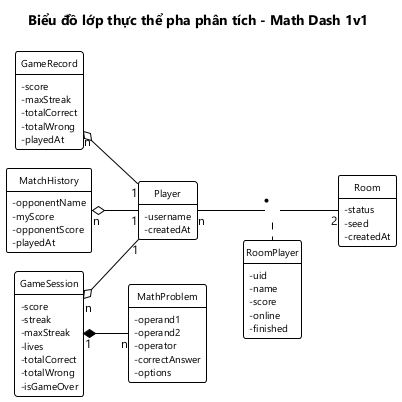
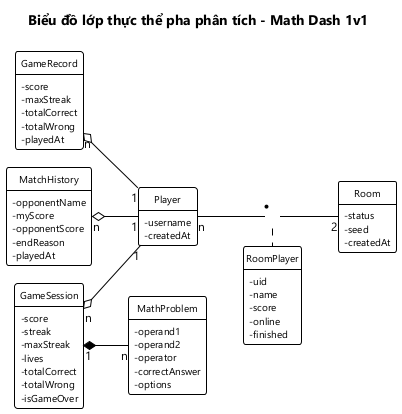
docs(M1-02): thêm thuộc tính endReason cho MatchHistory
Refs #23

diff --git a/docs/chung/02-lop-thuc-the.md b/docs/chung/02-lop-thuc-the.md
@@ -19,13 +19,13 @@ Hệ thống là một ứng dụng Android giúp người chơi luyện tính n
 
 Khi chơi offline, người chơi bắt đầu một ván chơi với 3 mạng. Trong ván chơi, hệ thống lần lượt đưa ra các câu hỏi, mỗi câu hỏi là một phép tính gồm hai toán hạng và một toán tử, kèm 4 phương án trả lời trong đó có một đáp án đúng. Cứ 5 câu hỏi thì mức độ khó tăng một bậc, tối đa 4 bậc. Mỗi câu có 6 giây để trả lời. Trả lời đúng thì người chơi được cộng điểm theo chuỗi đúng liên tiếp; trả lời sai hoặc hết giờ thì mất một mạng và chuỗi đúng trở về 0. Khi hết mạng, ván chơi kết thúc và hệ thống lưu kết quả ván gồm điểm, chuỗi đúng dài nhất, số câu đúng, số câu sai và thời điểm chơi. Kỷ lục của người chơi là điểm cao nhất trong các kết quả ván của người đó. Bảng vàng hiển thị các kết quả ván có điểm cao nhất trên máy.
 
-Khi chơi online, người chơi tìm trận: hệ thống đăng nhập ẩn danh để lấy mã định danh của máy, rồi tìm một phòng đấu đang chờ. Nếu có, người chơi vào phòng đó; nếu không, hệ thống tạo phòng đấu mới cùng mã đồng bộ câu hỏi và chờ đối thủ. Mỗi phòng đấu có trạng thái và tối đa hai người chơi trong phòng; mỗi người chơi trong phòng có mã định danh, tên, điểm, trạng thái trực tuyến và trạng thái đã xong trận. Hai người chơi trong cùng một phòng thi đấu 60 giây trên cùng một dãy câu hỏi được sinh từ mã đồng bộ, trả lời sai không mất mạng. Điểm của mỗi người được cập nhật lên phòng đấu để đối thủ thấy ngay. Hết giờ, người nhiều điểm hơn thắng, bằng điểm thì hòa; người bỏ trận bị xử thua. Kết quả trận gồm tên đối thủ, điểm của mình, điểm của đối thủ và thời điểm đấu được lưu vào lịch sử đấu của người chơi; người chơi có thể xem và xóa các trận trong lịch sử. Người chơi cũng có thể bật hoặc tắt âm thanh và rung.
+Khi chơi online, người chơi tìm trận: hệ thống đăng nhập ẩn danh để lấy mã định danh của máy, rồi tìm một phòng đấu đang chờ. Nếu có, người chơi vào phòng đó; nếu không, hệ thống tạo phòng đấu mới cùng mã đồng bộ câu hỏi và chờ đối thủ. Mỗi phòng đấu có trạng thái và tối đa hai người chơi trong phòng; mỗi người chơi trong phòng có mã định danh, tên, điểm, trạng thái trực tuyến và trạng thái đã xong trận. Hai người chơi trong cùng một phòng thi đấu 60 giây trên cùng một dãy câu hỏi được sinh từ mã đồng bộ, trả lời sai không mất mạng. Điểm của mỗi người được cập nhật lên phòng đấu để đối thủ thấy ngay. Hết giờ, người nhiều điểm hơn thắng, bằng điểm thì hòa; người bỏ trận bị xử thua. Kết quả trận gồm tên đối thủ, điểm của mình, điểm của đối thủ, cách kết thúc trận (bình thường, đối thủ bỏ trận hay mình bỏ trận) và thời điểm đấu được lưu vào lịch sử đấu của người chơi; người chơi có thể xem và xóa các trận trong lịch sử. Người chơi cũng có thể bật hoặc tắt âm thanh và rung.
 
 ## A.2. Bước 2: Trích các danh từ xuất hiện trong đoạn văn
 
 - **Các danh từ liên quan đến người:** người chơi, đối thủ, chủ phòng, người chơi trong phòng.
 - **Các danh từ liên quan đến vật:** ứng dụng, máy (điện thoại), màn hình chính.
-- **Các danh từ liên quan đến thông tin:** tên, mã định danh, ván chơi, mạng, câu hỏi, phép tính, toán hạng, toán tử, phương án trả lời, đáp án đúng, mức độ khó, thời gian (6 giây, 60 giây), điểm, chuỗi đúng, chuỗi đúng dài nhất, số câu đúng, số câu sai, kết quả ván, thời điểm chơi, kỷ lục, bảng vàng, phòng đấu, trạng thái phòng, mã đồng bộ câu hỏi, trạng thái trực tuyến, trạng thái đã xong trận, trận đấu, kết quả trận (thắng / thua / hòa), lịch sử đấu, thời điểm đấu, âm thanh, rung.
+- **Các danh từ liên quan đến thông tin:** tên, mã định danh, ván chơi, mạng, câu hỏi, phép tính, toán hạng, toán tử, phương án trả lời, đáp án đúng, mức độ khó, thời gian (6 giây, 60 giây), điểm, chuỗi đúng, chuỗi đúng dài nhất, số câu đúng, số câu sai, kết quả ván, thời điểm chơi, kỷ lục, bảng vàng, phòng đấu, trạng thái phòng, mã đồng bộ câu hỏi, trạng thái trực tuyến, trạng thái đã xong trận, trận đấu, kết quả trận (thắng / thua / hòa), cách kết thúc trận, lịch sử đấu, thời điểm đấu, âm thanh, rung.
 
 ## A.3. Bước 3: Đánh giá và lựa chọn các danh từ làm lớp thực thể hoặc thuộc tính
 
@@ -51,8 +51,9 @@ Khi chơi online, người chơi tìm trận: hệ thống đăng nhập ẩn da
   - Trận đấu → mỗi phòng đấu chỉ diễn ra đúng một trận và trận không có thông tin riêng ngoài thông tin của phòng (quan hệ 1-1) → **gộp vào lớp `Room`**, không đề xuất lớp.
   - Trạng thái phòng, mã đồng bộ câu hỏi → thuộc tính của `Room`.
   - Trạng thái trực tuyến, trạng thái đã xong trận → thuộc tính của `RoomPlayer`.
-  - Kết quả trận / lịch sử đấu → lịch sử đấu là danh sách các kết quả trận → lớp `MatchHistory` cho **một** kết quả trận: tên đối thủ (`opponentName`), điểm của mình (`myScore`), điểm của đối thủ (`opponentScore`), thời điểm đấu (`playedAt`).
-  - Thắng / thua / hòa → suy ra được bằng cách so `myScore` với `opponentScore` → thuộc tính dẫn xuất, **không lưu**.
+  - Kết quả trận / lịch sử đấu → lịch sử đấu là danh sách các kết quả trận → lớp `MatchHistory` cho **một** kết quả trận: tên đối thủ (`opponentName`), điểm của mình (`myScore`), điểm của đối thủ (`opponentScore`), cách kết thúc trận (`endReason`), thời điểm đấu (`playedAt`).
+  - Cách kết thúc trận → thuộc tính `endReason` của `MatchHistory`, **phải lưu**: đối thủ bỏ trận khi đang dẫn điểm thì mình vẫn thắng, nên không suy ra được từ 2 điểm số.
+  - Thắng / thua / hòa → suy ra được từ `endReason` (bỏ trận thì xử luôn) và so `myScore` với `opponentScore` (kết thúc bình thường) → thuộc tính dẫn xuất, **không lưu**.
   - Âm thanh, rung → là cấu hình của thiết bị, không phải đối tượng nghiệp vụ, không có quan hệ với lớp nào → **loại** (lưu bằng SharedPreferences ở pha thiết kế).
 
 ## A.4. Bước 4: Xác định quan hệ số lượng giữa các thực thể
@@ -63,7 +64,7 @@ Khi chơi online, người chơi tìm trận: hệ thống đăng nhập ẩn da
 - Một người chơi có nhiều kết quả ván, một kết quả ván thuộc về một người chơi → `Player` – `GameRecord` là **1-n**.
 - Một người chơi có nhiều kết quả trận, một kết quả trận thuộc về một người chơi → `Player` – `MatchHistory` là **1-n**.
 - Một người chơi tham gia nhiều phòng đấu theo thời gian, một phòng đấu có đúng 2 người chơi → `Player` – `Room` là **n-n** → đề xuất lớp trung gian `RoomPlayer` xác định duy nhất một người chơi trong một phòng, kèm điểm và trạng thái của người đó trong phòng.
-- Một phòng đấu kết thúc sinh ra một kết quả trận **trên mỗi máy** (theo góc nhìn của người chơi trên máy đó). Phòng đấu không được giữ lại sau khi trận kết thúc và kết quả trận chỉ cần tên đối thủ cùng 2 điểm số → `Room` – `MatchHistory` **không nối trực tiếp**. Các thông tin cần thiết được sao chép sang `MatchHistory` khi trận kết thúc.
+- Một phòng đấu kết thúc sinh ra một kết quả trận **trên mỗi máy** (theo góc nhìn của người chơi trên máy đó). Phòng đấu không được giữ lại sau khi trận kết thúc và kết quả trận chỉ cần tên đối thủ, 2 điểm số và cách kết thúc trận → `Room` – `MatchHistory` **không nối trực tiếp**. Các thông tin cần thiết được sao chép sang `MatchHistory` khi trận kết thúc.
 - Một trận đấu dùng câu hỏi sinh từ mã đồng bộ của phòng; câu hỏi không được lưu trên phòng (cả 2 máy tự sinh ra cùng một dãy) → `Room` – `MathProblem` **không nối trực tiếp**.
 
 ## A.5. Bước 5: Xác định quan hệ đối tượng giữa các thực thể
@@ -90,7 +91,7 @@ Kết quả thu được biểu đồ lớp thực thể pha phân tích toàn h
 | 4 | `GameRecord` | Kết quả ván | Bản lưu khi ván offline kết thúc; kỷ lục và bảng vàng suy ra từ lớp này |
 | 5 | `Room` | Phòng đấu (gộp trận đấu) | Lưu trên máy chủ |
 | 6 | `RoomPlayer` | Người chơi trong phòng | Lớp liên kết của quan hệ n-n `Player` – `Room`, lưu trên máy chủ |
-| 7 | `MatchHistory` | Kết quả trận / lịch sử đấu | Bản lưu trên máy khi trận online kết thúc; thắng / thua / hòa suy ra từ 2 điểm |
+| 7 | `MatchHistory` | Kết quả trận / lịch sử đấu | Bản lưu trên máy khi trận online kết thúc; thắng / thua / hòa suy ra từ 2 điểm và cách kết thúc trận |
 
 ## A.7. Biểu đồ lớp thực thể pha phân tích
 
